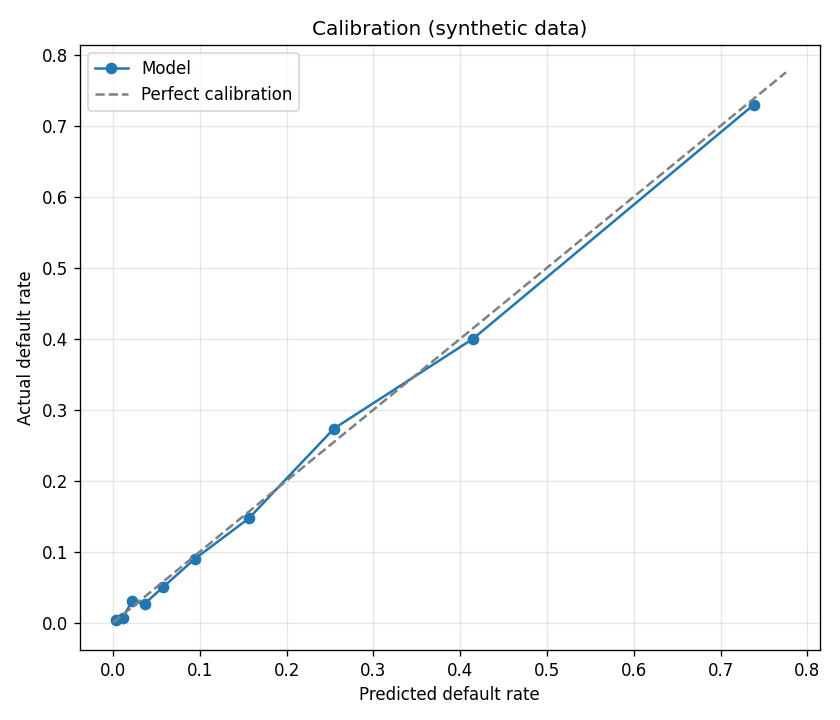
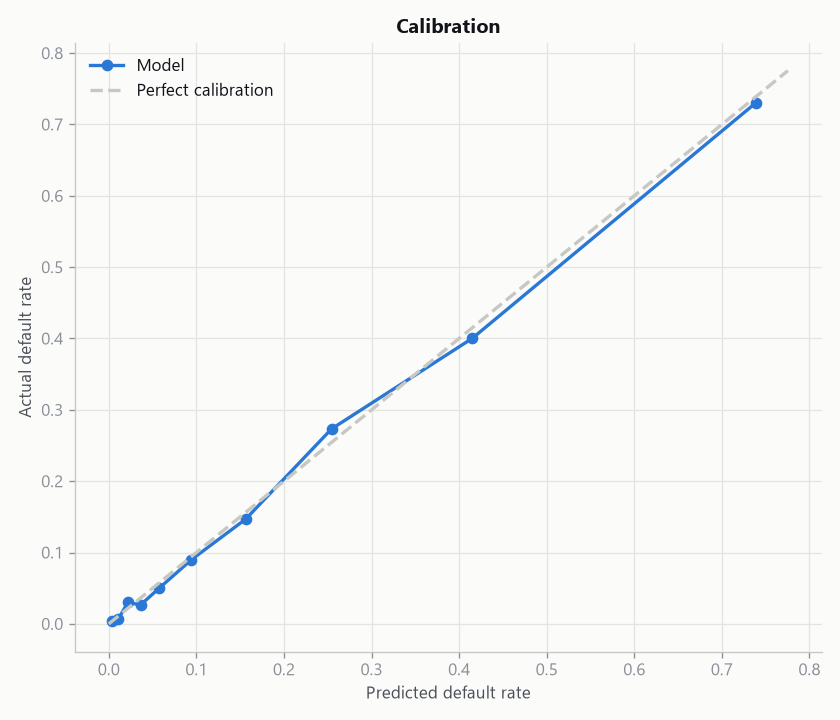
Apply validated chart styling with a semantic good/bad color mapping
Verified end to end first: pytest (15/15) and a live run of
run_credit_model.py both pass (AUC 0.88, KS 0.61 on the test set).
Payers and defaulters are a genuine outcome pair, not two arbitrary
categories, so they get a fixed aqua/red good-bad mapping rather than
the first two slots of the general categorical set used elsewhere.
Matches the validated-palette treatment applied across the other
quant-finance repos.

diff --git a/src/credit_risk/plotting.py b/src/credit_risk/plotting.py
@@ -11,26 +11,34 @@ import matplotlib.pyplot as plt
 import numpy as np
 from sklearn.metrics import roc_curve
 
-from . import metrics
+from . import metrics, viz_style
+
+# Payers and defaulters are a genuine good/bad outcome pair, not two
+# arbitrary categories, so they get a fixed semantic mapping rather than
+# the first two slots of the general categorical set.
+GOOD, BAD = viz_style.AQUA, viz_style.RED
 
 
 def plot_roc(y_true, pd_hat, title="ROC curve"):
+    viz_style.apply()
     fpr, tpr, _ = roc_curve(y_true, pd_hat)
     a = metrics.auc(y_true, pd_hat)
     fig, ax = plt.subplots(figsize=(7, 6))
-    ax.plot(fpr, tpr, color="tab:blue", linewidth=2, label=f"Model (AUC = {a:.3f})")
-    ax.plot([0, 1], [0, 1], color="gray", linestyle="--", label="Random")
+    ax.plot(fpr, tpr, color=viz_style.BLUE, linewidth=2.2,
+           label=f"Model (AUC = {a:.3f})")
+    ax.plot([0, 1], [0, 1], color=viz_style.BASELINE, linestyle="--",
+           label="Random")
     ax.set_xlabel("False positive rate")
     ax.set_ylabel("True positive rate")
     ax.set_title(title)
     ax.legend(loc="lower right")
-    ax.grid(True, alpha=0.3)
     fig.tight_layout()
     return fig
 
 
 def plot_ks(y_true, pd_hat, title="KS separation"):
     """Cumulative payer and defaulter curves, with the KS gap marked."""
+    viz_style.apply()
     y_true = np.asarray(y_true)
     pd_hat = np.asarray(pd_hat)
     order = np.argsort(pd_hat)
@@ -44,48 +52,48 @@ def plot_ks(y_true, pd_hat, title="KS separation"):
     k = int(np.argmax(gap))
 
     fig, ax = plt.subplots(figsize=(8, 5))
-    ax.plot(pd_sorted, cum_good, label="Payers", color="tab:green")
-    ax.plot(pd_sorted, cum_bad, label="Defaulters", color="tab:red")
-    ax.vlines(pd_sorted[k], cum_bad[k], cum_good[k], color="black",
-              linestyle=":", label=f"KS = {gap[k]:.3f}")
+    ax.plot(pd_sorted, cum_good, label="Payers", color=GOOD, linewidth=2)
+    ax.plot(pd_sorted, cum_bad, label="Defaulters", color=BAD, linewidth=2)
+    ax.vlines(pd_sorted[k], cum_bad[k], cum_good[k], color=viz_style.INK,
+              linestyle=":", linewidth=1.6, label=f"KS = {gap[k]:.3f}")
     ax.set_xlabel("Predicted probability of default")
     ax.set_ylabel("Cumulative share")
     ax.set_title(title)
     ax.legend()
-    ax.grid(True, alpha=0.3)
     fig.tight_layout()
     return fig
 
 
 def plot_score_distribution(scores, y_true, title="Credit score distribution"):
     """Overlaid score histograms for payers and defaulters."""
+    viz_style.apply()
     scores = np.asarray(scores)
     y_true = np.asarray(y_true)
     fig, ax = plt.subplots(figsize=(9, 5))
     bins = np.linspace(scores.min(), scores.max(), 40)
-    ax.hist(scores[y_true == 0], bins=bins, alpha=0.6, label="Paid", color="tab:green")
-    ax.hist(scores[y_true == 1], bins=bins, alpha=0.6, label="Default", color="tab:red")
+    ax.hist(scores[y_true == 0], bins=bins, alpha=0.65, label="Paid", color=GOOD)
+    ax.hist(scores[y_true == 1], bins=bins, alpha=0.65, label="Default", color=BAD)
     ax.set_xlabel("Credit score")
     ax.set_ylabel("Applicants")
     ax.set_title(title)
     ax.legend()
-    ax.grid(True, axis="y", alpha=0.3)
+    ax.grid(axis="x", visible=False)
     fig.tight_layout()
     return fig
 
 
 def plot_calibration(y_true, pd_hat, n_bins=10, title="Calibration"):
+    viz_style.apply()
     table = metrics.calibration_table(y_true, pd_hat, n_bins)
     fig, ax = plt.subplots(figsize=(7, 6))
     ax.plot(table["predicted_default_rate"], table["actual_default_rate"],
-            "o-", color="tab:blue", label="Model")
+            "o-", color=viz_style.BLUE, linewidth=2, label="Model")
     lim = [0, max(table["predicted_default_rate"].max(), table["actual_default_rate"].max()) * 1.05]
-    ax.plot(lim, lim, "--", color="gray", label="Perfect calibration")
+    ax.plot(lim, lim, "--", color=viz_style.BASELINE, label="Perfect calibration")
     ax.set_xlabel("Predicted default rate")
     ax.set_ylabel("Actual default rate")
     ax.set_title(title)
     ax.legend()
-    ax.grid(True, alpha=0.3)
     fig.tight_layout()
     return fig
 

diff --git a/src/credit_risk/viz_style.py b/src/credit_risk/viz_style.py
@@ -1,0 +1,53 @@
+"""Shared chart style: a validated categorical palette on a clean light
+surface, styled for a quant/analytics register rather than matplotlib
+defaults."""
+
+from __future__ import annotations
+
+import matplotlib as mpl
+from matplotlib.colors import LinearSegmentedColormap
+
+SURFACE = "#fbfbfa"
+INK = "#111318"
+INK_2 = "#4b4f58"
+MUTED = "#8b8f98"
+GRID = "#e4e4e2"
+BASELINE = "#c7c7c4"
+
+# Fixed-order categorical set (validated: adjacent-pair CVD dE >= 8, normal
+# vision floor >= 15 on this surface). Never cycle past what's needed.
+SERIES = ["#2a78d6", "#eb6834", "#1baf7a", "#4a3aa7", "#e34948", "#eda100"]
+BLUE, ORANGE, AQUA, VIOLET, RED, YELLOW = SERIES
+
+DIVERGE_NEG, DIVERGE_MID, DIVERGE_POS = "#e34948", "#f0efec", "#2a78d6"
+
+
+def apply() -> None:
+    mpl.rcParams.update({
+        "figure.facecolor": SURFACE,
+        "axes.facecolor": SURFACE,
+        "savefig.facecolor": SURFACE,
+        "axes.edgecolor": BASELINE,
+        "axes.labelcolor": INK_2,
+        "axes.titlecolor": INK,
+        "axes.titleweight": "bold",
+        "axes.titlesize": 12,
+        "axes.grid": True,
+        "grid.color": GRID,
+        "grid.linewidth": 0.8,
+        "axes.spines.top": False,
+        "axes.spines.right": False,
+        "xtick.color": MUTED,
+        "ytick.color": MUTED,
+        "text.color": INK,
+        "font.family": "sans-serif",
+        "font.sans-serif": ["Segoe UI", "Arial", "sans-serif"],
+        "lines.linewidth": 2,
+        "legend.frameon": False,
+        "figure.dpi": 120,
+    })
+
+
+def diverging_cmap():
+    return LinearSegmentedColormap.from_list(
+        "diverge", [DIVERGE_NEG, DIVERGE_MID, DIVERGE_POS])
